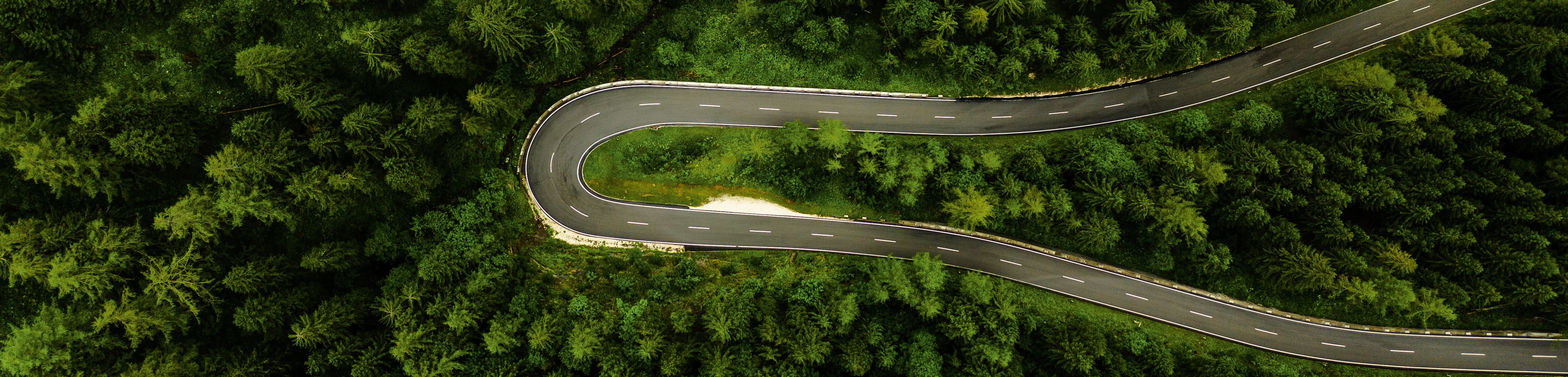
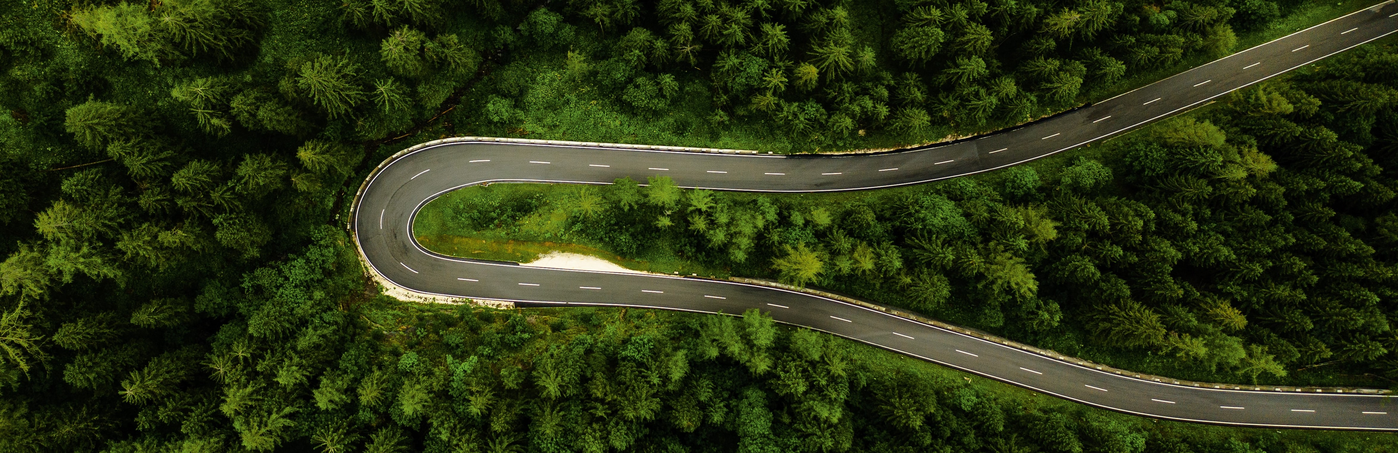
[Nav] - header/footer desplegable

diff --git a/Modulos/Nav/css/nav.css b/Modulos/Nav/css/nav.css
@@ -1,0 +1,193 @@
+body {
+    background-color: #FFFDF4;
+    font-family: 'Marvel', sans-serif;
+    margin: 0;
+    padding: 0;
+}
+
+#header {
+    background-image: url("../img/header.jpg");
+    background-size: 1800px;
+    width: 100%;
+    height: 260px;
+    display: flex;
+}
+
+.header-container{
+    display: flex;
+    position: realive;
+}
+
+#headerLogo {
+    width: auto;
+    height: 200px;
+    padding: 30px;
+    display: flex; 
+}
+
+.header-container h1{
+    color: #FAF5E2;
+    font-size: 100px;
+    display: flex;
+    position: relative;
+    justify-content: flex-start;
+}
+
+.header-container-select{
+    width: 2000px;
+    display: flex;
+    position: relative;
+    justify-content:space-around;
+    align-items: flex-end;
+    margin-top: 200px;  
+    padding-left: 1050px; 
+    padding-bottom: 15px; 
+}
+
+#select{
+    cursor: pointer;
+}
+
+.nav-menu ul{ 
+    list-style-type: none;
+    margin-left: 1420px;
+    
+}
+
+.nav-menu li{ 
+    background-color: #83A931;
+    padding: 12px;   
+    box-shadow: 3px 3px 5px 0px rgba(0,0,0,0.5);
+    margin-right: 50px;
+    margin-bottom: 1px;
+    
+}
+
+.slide-in-blurred-top{
+    -webkit-animation: slide-in-blurred-top 0.6s cubic-bezier(0.230, 1.000, 0.320, 1.000) both;
+    animation: slide-in-blurred-top 0.6s cubic-bezier(0.230, 1.000, 0.320, 1.000) both;
+}
+
+.slide-in-blurred-top2{
+    -webkit-animation: slide-in-blurred-top 0.6s cubic-bezier(0.230, 1.000, 0.320, 1.000) reverse both;
+    animation: slide-in-blurred-top 0.6s cubic-bezier(0.230, 1.000, 0.320, 1.000) reverse both;
+}
+
+@-webkit-keyframes slide-in-blurred-top {
+    0% {
+      -webkit-transform: translateY(-1000px) scaleY(2.5) scaleX(0.2);
+              transform: translateY(-1000px) scaleY(2.5) scaleX(0.2);
+      -webkit-transform-origin: 50% 0%;
+              transform-origin: 50% 0%;
+      -webkit-filter: blur(40px);
+              filter: blur(40px);
+      opacity: 0;
+    }
+    100% {
+      -webkit-transform: translateY(0) scaleY(1) scaleX(1);
+              transform: translateY(0) scaleY(1) scaleX(1);
+      -webkit-transform-origin: 50% 50%;
+              transform-origin: 50% 50%;
+      -webkit-filter: blur(0);
+              filter: blur(0);
+      opacity: 1;
+    }
+  }
+
+@keyframes slide-in-blurred-top {
+    0% {
+      transform: translateY(-1000px) scaleY(2.5) scaleX(0.2);
+      transform-origin: 50% 0%;
+      filter: blur(40px);
+      opacity: 0;
+    }
+    100% {
+      transform: translateY(0) scaleY(1) scaleX(1);
+      transform-origin: 50% 50%;
+      filter: blur(0);
+      opacity: 1;
+    }
+  }  
+
+  @-webkit-keyframes slide-in-blurred-top2 {
+    0% {
+      -webkit-transform: translateY(-1000px) scaleY(2.5) scaleX(0.2);
+              transform: translateY(-1000px) scaleY(2.5) scaleX(0.2);
+      -webkit-transform-origin: 50% 0%;
+              transform-origin: 50% 0%;
+      -webkit-filter: blur(40px);
+              filter: blur(40px);
+      opacity: 0;
+    }
+    100% {
+      -webkit-transform: translateY(0) scaleY(1) scaleX(1);
+              transform: translateY(0) scaleY(1) scaleX(1);
+      -webkit-transform-origin: 50% 50%;
+              transform-origin: 50% 50%;
+      -webkit-filter: blur(0);
+              filter: blur(0);
+      opacity: 1;
+    }
+  }
+
+@keyframes slide-in-blurred-top2 {
+    0% {
+      transform: translateY(-1000px) scaleY(2.5) scaleX(0.2);
+      transform-origin: 50% 0%;
+      filter: blur(40px);
+      opacity: 0;
+    }
+    100% {
+      transform: translateY(0) scaleY(1) scaleX(1);
+      transform-origin: 50% 50%;
+      filter: blur(0);
+      opacity: 1;
+    }
+  }  
+
+
+.nave-menu{
+    display: block;
+    justify-content: space-between;
+}
+
+#menu{
+    display: none;
+   
+}
+
+.caja {
+    border : 3px solic;
+    padding: 5px;
+    text-align: center;
+}   
+
+a {
+    text-decoration: none;
+    font-size: 50px;
+    color: #FAF5E2;
+    padding: 10px;
+}    
+
+#footer{
+    color: #FFFDF4;
+    display: flex;
+    width: 1780px;
+    background-color: #344306;
+    padding: 10px;
+    position: absolute; 
+    bottom: 0;
+    left: 0;
+}
+
+#footer svg{
+    margin-left: 20px;
+}
+
+#footer p{
+    margin-left: 20px;
+    margin-top: 20px;
+}
+
+
+

diff --git a/Modulos/Nav/nav.html b/Modulos/Nav/nav.html
@@ -1,0 +1,53 @@
+<!DOCTYPE html>
+<html lang="es">
+<head>
+    <meta charset="UTF-8">
+    <meta name="viewport" content="width=device-width, initial-scale=1.0">
+    <title>EcoCarga Home</title>
+    <script src="../Nav/js/nav.js"></script>
+    <link rel="stylesheet" type="text/css" href="../Nav/css/nav.css">
+    <link rel="preconnect" href="https://fonts.gstatic.com" crossorigin>
+    <link href="https://fonts.googleapis.com/css2?family=Marvel&display=swap" rel="stylesheet">
+</head>
+<body>
+    <header id="header">
+        <div class="header-container" onclick="volverHome()">
+            <img src="../Nav/img/logo.png" alt="Logo" id= "headerLogo">
+            <h1>EcoCarga</h1>
+        </div>
+        <div class="header-container-select">
+
+            <div id="select" onclick="desplegar()">
+                <svg xmlns="http://www.w3.org/2000/svg" id="select" width="70" height="70" viewBox="0 0 24 24" fill="none" stroke="#faf5e2" stroke-width="2.5" stroke-linecap="round" stroke-linejoin="round"><line x1="3" y1="12" x2="21" y2="12"></line><line x1="3" y1="6" x2="21" y2="6"></line><line x1="3" y1="18" x2="21" y2="18"></line></svg>
+            </div>
+            
+        </div>
+    </header>
+    
+    <div id="menu" class="nav-menu" >
+        <ul>
+            <div class="caja">
+                <li><a href="#">Inicio</a></li>
+            </div>
+         
+            <div class="caja">
+                <li><a href="#">Noticias</a></li>
+            </div>
+     
+            <div class="caja">
+                <li><a href="#">Itinerario</a></li>
+            </div>
+
+            <div class="caja">
+                <li><a href="#">Sobre nosotros</a></li>
+            </div>
+        </ul>
+    </div>
+
+<footer id="footer">
+    <svg fill="#FFFDF4" height="64px" width="30px" version="1.1" id="Capa_1" xmlns="http://www.w3.org/2000/svg" xmlns:xlink="http://www.w3.org/1999/xlink" viewBox="0 0 367.467 367.467" xml:space="preserve"><g id="SVGRepo_bgCarrier" stroke-width="0"></g><g id="SVGRepo_tracerCarrier" stroke-linecap="round" stroke-linejoin="round"></g><g id="SVGRepo_iconCarrier"> <g> <path d="M183.73,0.018C82.427,0.018,0,82.404,0,183.733c0,101.289,82.427,183.716,183.73,183.716 c101.315,0,183.737-82.427,183.737-183.716C367.467,82.404,285.045,0.018,183.73,0.018z M183.73,326.518 c-78.743,0-142.798-64.052-142.798-142.784c0-78.766,64.055-142.817,142.798-142.817c78.752,0,142.807,64.052,142.807,142.817 C326.536,262.466,262.481,326.518,183.73,326.518z"></path> <path d="M244.036,217.014c-11.737,20.141-33.562,32.635-56.956,32.635c-36.329,0-65.921-29.585-65.921-65.915 c0-36.36,29.592-65.955,65.921-65.955c23.395,0,45.219,12.54,56.956,32.641l1.517,2.627h44.28l-2.658-7.129 c-7.705-20.413-21.225-37.769-39.122-50.157c-17.942-12.42-39.017-19.009-60.973-19.009c-58.981,0-106.946,48.006-106.946,106.982 c0,58.98,47.965,106.941,106.946,106.941c21.956,0,43.03-6.567,60.973-19.006c17.897-12.391,31.417-29.741,39.122-50.154 l2.658-7.133h-44.28L244.036,217.014z"></path> </g> </g></svg>
+    <p>Todos los derechos reservados</p>
+    
+</footer>
+</body>
+</html>

diff --git a/Modulos/Home/home.html b/Modulos/Home/home.html
@@ -7,23 +7,30 @@
     <script src="https://code.highcharts.com/highcharts.js"></script>
     <script src="js/home.js"></script>
     <link rel="stylesheet" type="text/css" href="css/home.css">
+    <link rel="preconnect" href="https://fonts.googleapis.com">
+    <link rel="preconnect" href="https://fonts.gstatic.com" crossorigin>
+    <link href="https://fonts.googleapis.com/css2?family=Marvel&display=swap" rel="stylesheet">
+
+   
 </head>
 <body>
     <header>
         <div class="img-container" onclick="volverHome()">
             <img src="img/header.jpg" alt="Encabezado" id= "header">
             <img src="img/logo.png" alt="Logo" id= "headerLogo">
-            <img src="img/logo.png" alt="Logo" id= "headerLogo">
+            <svg xmlns="http://www.w3.org/2000/svg" id="select" width="24" height="24" viewBox="0 0 24 24" fill="none" stroke="#faf5e2" stroke-width="2.5" stroke-linecap="round" stroke-linejoin="round"><line x1="3" y1="12" x2="21" y2="12"></line><line x1="3" y1="6" x2="21" y2="6"></line><line x1="3" y1="18" x2="21" y2="18"></line></svg>
+            <h1>EcoCarga</h1>
+        
         </div>
+        
     </header>
     <nav>
         <div class="search">
-            <input type="text" placeholder="Introduce código postal...">
-            <img src="img/lupa.jpg" alt="Buscar" id="buscar" onclick="buscarMapa()">
+            <svg xmlns="http://www.w3.org/2000/svg" width="24" height="24" viewBox="0 0 24 24" fill="none" stroke="#faf5e2" stroke-width="2" stroke-linecap="round" stroke-linejoin="round"><circle cx="11" cy="11" r="8"></circle><line x1="21" y1="21" x2="16.65" y2="16.65"></line></svg>
+            <input type="text" id="searchBar" placeholder="Introduce código postal...">
+            
         </div>
-
-            <img src="img/select.png" alt="select" id="select" onclick="toggleMenu()">
-    
+            
         <!-- Menú desplegable -->
         <div class="nav-menu" id="menu">
             <ul>

diff --git a/Modulos/Home/css/home.css b/Modulos/Home/css/home.css
@@ -1,6 +1,12 @@
 body {
+    font-family: 'Marvel', sans-serif;
     margin: 0;
     padding: 0;
+}
+
+h1{
+    z-index: 2;
+    color: #FAF5E2;
 }
 
 header {
@@ -39,6 +45,22 @@ header {
     z-index: 2;
 }
 
+#select{
+    align-items: right;
+    z-index: 3;
+}
+
+.search{
+    display: flex;
+    position: relative;
+}
+
+#searchBar{
+    align-items: left;
+  
+}
+
+
 
 
 nav {
@@ -46,6 +68,8 @@ nav {
     color: white;
     background: linear-gradient(to right, #3a3a3a, #558bb8);
 }
+
+
 
 .mapa-container {
     max-width: 100%; 
@@ -57,31 +81,12 @@ nav {
     height: auto; 
 }
 
-#select{
-    width: 50px;
-    float: right;
-    margin-right: 20px;
-}
-
-#buscar{
-    width: 50px;
-    float: left;
-    margin-left: 20px;
-}
-
 
 #map-container {
     width: 100%;
     height: 400px; /* Ajusta la altura según tus necesidades */
 }
 
-/* Estilos generales */
-/* Estilos generales */
-body {
-    margin: 0;
-    padding: 0;
-    font-family: Arial, sans-serif;
-}
 
 /* Estilos específicos para el menú desplegable */
 .nav-menu {

diff --git a/Modulos/Nav/js/nav.js b/Modulos/Nav/js/nav.js
@@ -1,0 +1,27 @@
+function volverHome(){
+    window.open("/Modulos/Home/home.html", "_self");
+}
+
+function desplegar(){
+    var menu = document.getElementById("menu");
+
+    if (menu.style.display === "block") {
+        menu.style.display = "none";
+        menu.classList.remove("slide-in-blurred-top");
+        menu.classList.add("slide-in-blurred-top2");
+      
+       
+
+    } else {
+        menu.style.display = "block";
+        menu.classList.remove("slide-in-blurred-top2");
+        menu.classList.add("slide-in-blurred-top");
+    }
+}
+
+
+
+
+
+    
+
